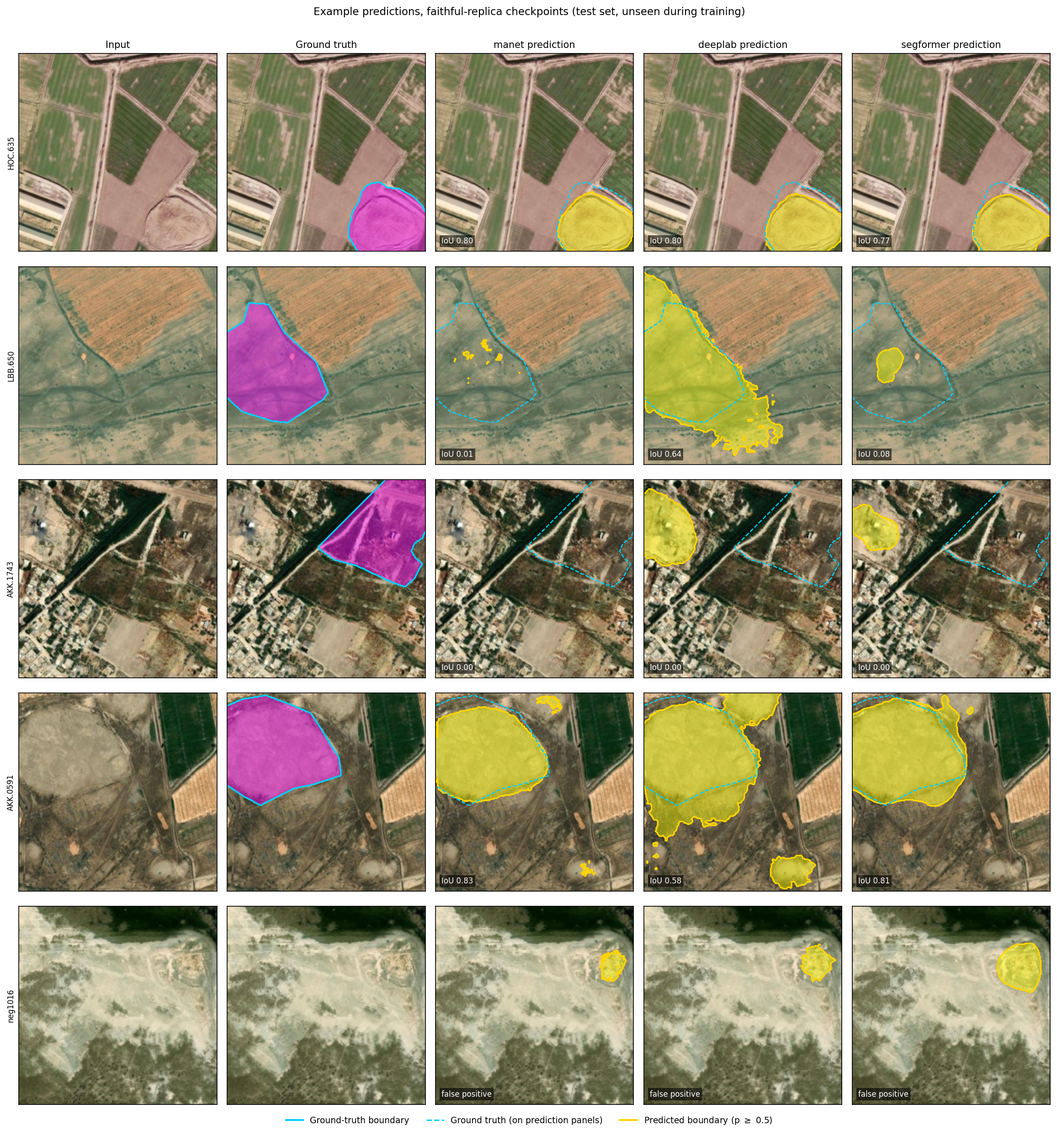
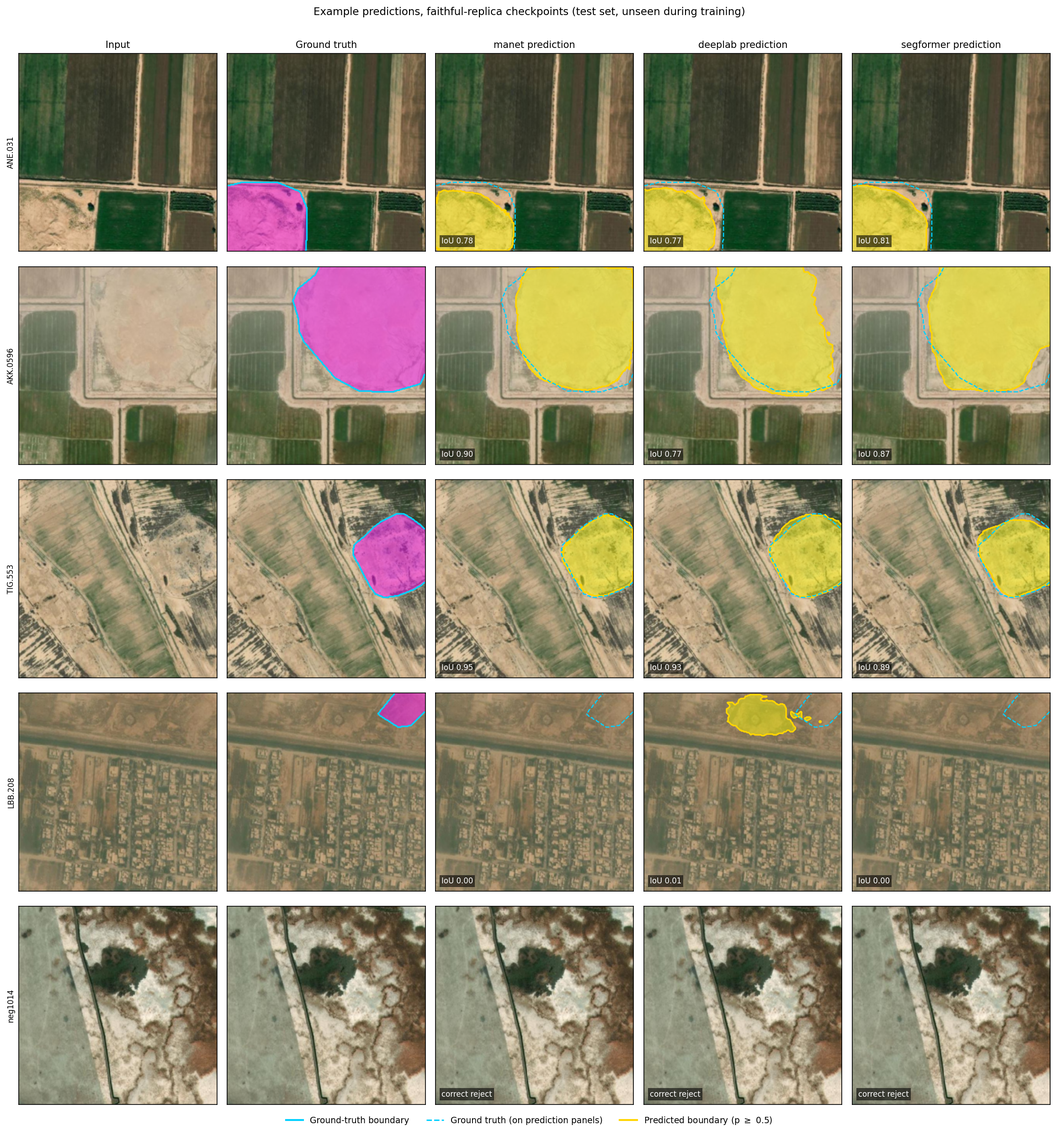
Select prediction-figure tiles on evidence and report the score distribution

diff --git a/thesis/chapters/A-reproduction.tex b/thesis/chapters/A-reproduction.tex
@@ -295,43 +295,63 @@ unseen during training.
 \caption[Example predictions on held-out test tiles]{Example predictions from
 the full-protocol replica checkpoints, on test tiles unseen during training.
 Columns: input imagery; annotated ground truth (filled, solid boundary); and
-the thresholded prediction of each architecture (filled, solid boundary) with
-the ground-truth boundary repeated as a dashed line for direct comparison.
-Per-panel figures are the IoU of that single tile. The final row is a negative
-tile -- no annotated site -- chosen for visual complexity rather than at
-random, since a uniform field is trivially rejected; all three architectures
-produce a small spurious detection on it.}
+each architecture's thresholded prediction ($p \geq 0.5$, filled and outlined)
+with the ground-truth boundary repeated as a dashed line for direct
+comparison. Tiles are selected rather than random, on the basis stated in
+Section~\ref{sec:repro-qualitative}: the first three are drawn from the regime
+where all three architectures agree, the fourth is a characteristic failure on
+a small site, and the fifth is a negative tile with no annotated site.}
 \label{fig:prediction-examples}
 \end{figure}
 
-Three things in this figure bear on how the quantitative results should be
-read, and two of them are unflattering.
+\paragraph{How these tiles were chosen.}
+They are not a random sample, and the distinction matters for how the figure
+should be read. Per-tile IoU on this corpus is strongly bimodal: scoring all
+466 site-bearing test tiles under all three checkpoints gives a median per-tile
+IoU of $0.165$ (MA-Net), $0.053$ (DeepLabV3+) and $0.000$ (SegFormer), with
+$48$--$57\%$ of tiles below $0.1$ and, at the same time, $29$--$37\%$ above
+$0.5$ and a 90th percentile of $0.78$--$0.81$. A random draw of four tiles
+therefore mostly samples the failure mode and understates what the models do
+when they succeed, while a selection of successes alone would misrepresent a
+distribution in which roughly half of tiles are near zero. The figure shows
+three tiles from the upper mode, one characteristic failure, and one negative.
 
-First, where a mound is tonally distinct from its surroundings the models
-localise it well and agree closely: on the first row all three recover the
-annotated contour at per-tile IoU of $0.77$--$0.80$, tracking the mound's
-outline rather than merely overlapping its bounding area. This is the
-behaviour the aggregate figure is built from, and it is genuinely good.
+\paragraph{What the successful cases show.}
+Where a mound is tonally distinct from its surroundings, the predicted contour
+tracks the annotated boundary closely rather than merely overlapping its
+extent, and the three architectures agree with one another to within a few
+points. This is not a marginal capability recovered by a favourable metric: on
+these tiles the models delineate the site, which is what the downstream
+archaeological workflow needs, and it is the behaviour underlying the
+upper mode of the distribution above.
 
-Second, agreement between architectures is far weaker than the aggregate
-figures suggest. On the second row the same tile yields $0.01$, $0.64$ and
-$0.08$ across the three architectures -- one recovers the site, two effectively
-miss it. On the third row all three miss the annotated site entirely, and two
-of them instead fire on an unannotated area elsewhere in the tile. Aggregate
-IoU averages this disagreement away: the reference study's finding that
-architectural choice moves IoU by only a few points is compatible with
-per-tile behaviour that differs far more than that, and a mean over tiles
-should not be read as evidence that the architectures are doing the same thing.
+\paragraph{What the failure case shows.}
+The fourth row is the error mode Section~\ref{sec:repro-error} quantifies. The
+annotated site occupies $5\%$ of the crop, and all three architectures miss it
+almost entirely. The dependence is systematic rather than incidental: taking
+the worst of the three architectures per tile, median IoU is $0.000$ for every
+site-area band below $12\%$ of the crop and rises only for larger sites. Small
+sites carry too little tonal evidence to separate them from the terrain they
+sit in, which is the same reason the original authors excluded sites below
+$1{,}000$~m\textsuperscript{2} and reports a $+3.9$ point gain from that
+filtering.
 
-Third, the negative example shows the corresponding failure in the other
-direction. Chosen for visual complexity rather than at random, it elicits a
-small spurious detection from all three architectures. Together with the third
-row's misplaced predictions this indicates that the models key on tonal and
-textural contrast -- which is what a mounded site usually presents from above,
-but also what an ordinary field boundary, a quarry or a patch of bare ground
-presents. This is the mechanism behind the error structure
-Section~\ref{sec:repro-error} quantifies, and behind the strong dependence of
-per-image IoU on site area (Table~\ref{tab:by-area}): the smaller the site
-relative to its crop, the less tonal evidence separates it from the terrain it
-sits in, and the more readily that evidence is matched by something else in
-the tile.
+\paragraph{Negatives.}
+The final row carries no annotated site and all three architectures correctly
+predict nothing, which is the typical outcome rather than a flattering one:
+$108$ of the $123$ negative test tiles are cleanly rejected by all three, and
+spurious detections appear on only $5.7\%$ (DeepLabV3+), $7.3\%$ (MA-Net) and
+$8.9\%$ (SegFormer) of them. This matters for the metric discussion of
+Section~\ref{sec:repro-metric}: correctly-rejected empty tiles score a perfect
+$1.0$ under the reference's per-image convention, so they contribute
+substantially to the headline figure, and the fact that they are genuinely
+rejected -- rather than scored as perfect by an artefact of averaging -- is
+what makes that contribution legitimate.
+
+\paragraph{A caveat on per-tile figures.}
+Evaluation random-crops each tile, following the reference protocol, so a
+single tile's IoU depends on the crop drawn as well as on the model. The values
+annotated in Figure~\ref{fig:prediction-examples} are those of the crop shown
+and differ somewhat from the same tiles' scores under a different draw; the
+distributional statistics quoted above, taken over all 466 site-bearing tiles,
+are the stable quantity.

diff --git a/thesis/scripts/score_test_tiles.py b/thesis/scripts/score_test_tiles.py
@@ -1,0 +1,111 @@
+"""Score every test tile under all three replica checkpoints.
+
+Produces the per-tile IoU distribution needed to choose figure examples on
+evidence rather than by random draw, and to state in the caption how the
+chosen tiles sit relative to the rest of the test set.
+
+Note: evaluation random-crops (the reference protocol), so a tile's IoU is
+partly a function of the crop drawn. The seed is fixed here and in
+make_prediction_figures.py so the two agree.
+"""
+import json
+import os
+import random
+import sys
+
+import numpy as np
+import torch
+
+sys.path.insert(0, "/workspace/0-reproduction")
+from dataset import load_dataset, esegui_trasformazioni, ArcheoDataset
+from model import _EpochBufferedArcheoModel, SegformerArcheoModel
+
+ARCH_CONFIG = {
+    "manet":     {"arch": "MAnet",         "encoder": "efficientnet-b3", "ckpt": "manet_full/lightning_logs/version_0/checkpoints/epoch=19-step=2940.ckpt"},
+    "deeplab":   {"arch": "DeepLabV3Plus", "encoder": "resnet50",        "ckpt": "deeplab_full/lightning_logs/version_0/checkpoints/epoch=19-step=2940.ckpt"},
+    "segformer": {"arch": None,            "encoder": "b0",              "ckpt": "segformer_full/lightning_logs/version_0/checkpoints/epoch=19-step=2940.ckpt"},
+}
+DATASET_PATH = "/workspace/bing_1k"
+RUNS_ROOT = "/workspace/0-reproduction/runs"
+OUT = "/workspace/runs/figs/test_tile_scores.json"
+RANDOM_SEED = 1234
+THRESHOLD = 0.5
+device = "cuda"
+
+random.seed(RANDOM_SEED)
+np.random.seed(RANDOM_SEED)
+torch.manual_seed(RANDOM_SEED)
+
+n_files = len(os.listdir(os.path.join(DATASET_PATH, "train", "originals", "sites"))) \
+    + len(os.listdir(os.path.join(DATASET_PATH, "train", "negs", "sites")))
+indices = np.arange(0, n_files)
+np.random.shuffle(indices)
+path_lookup, train_files, val_files, test_files = load_dataset(DATASET_PATH, RANDOM_SEED, indices)
+_, val_transform = esegui_trasformazioni()
+
+models = {}
+for key, cfg in ARCH_CONFIG.items():
+    ckpt = os.path.join(RUNS_ROOT, cfg["ckpt"])
+    config = {"arch": cfg["arch"], "encoder": cfg["encoder"], "weights": "imagenet",
+              "in_channels": 3, "batch_size": 32, "lr": 1e-4, "loss": "focal"}
+    if key == "segformer":
+        m = SegformerArcheoModel(encoder_name=cfg["encoder"], in_channels=3, out_classes=1, config=config)
+        m.load_state_dict(torch.load(ckpt, map_location="cpu")["state_dict"])
+    else:
+        m = _EpochBufferedArcheoModel.load_from_checkpoint(
+            ckpt, arch=cfg["arch"], encoder_name=cfg["encoder"],
+            encoder_weights="imagenet", in_channels=3, out_classes=1, config=config)
+    models[key] = m.to(device).eval()
+
+ds = ArcheoDataset(np.array(sorted(test_files)), path_lookup, transform=val_transform)
+rows = []
+with torch.no_grad():
+    for i in range(len(ds)):
+        image, mask, fname = ds[i]
+        mask_np = mask.squeeze(0).numpy()
+        x = image.unsqueeze(0).to(device).float()
+        rec = {"file": fname, "positive": bool(mask_np.any()),
+               "site_frac": float((mask_np >= 0.5).mean())}
+        for key, m in models.items():
+            logits = m(x)
+            if logits.shape[-2:] != mask_np.shape:
+                logits = torch.nn.functional.interpolate(
+                    logits, size=mask_np.shape, mode="bilinear", align_corners=False)
+            pred = (torch.sigmoid(logits).squeeze().cpu().numpy() >= THRESHOLD)
+            gt = mask_np >= 0.5
+            if gt.any():
+                union = np.logical_or(pred, gt).sum()
+                rec[key] = float(np.logical_and(pred, gt).sum() / union) if union else 0.0
+            else:
+                # negative tile: record whether anything was predicted at all
+                rec[key] = None
+                rec[f"{key}_fp_px"] = int(pred.sum())
+        rows.append(rec)
+        if (i + 1) % 100 == 0:
+            print(f"  scored {i+1}/{len(ds)}", flush=True)
+
+os.makedirs(os.path.dirname(OUT), exist_ok=True)
+with open(OUT, "w") as fh:
+    json.dump(rows, fh, indent=1)
+
+pos = [r for r in rows if r["positive"]]
+neg = [r for r in rows if not r["positive"]]
+print(f"\ntest tiles: {len(rows)}  ({len(pos)} with a site, {len(neg)} negative)")
+for key in ARCH_CONFIG:
+    v = np.array([r[key] for r in pos])
+    print(f"{key:>10}: median {np.median(v):.3f}  mean {v.mean():.3f}  "
+          f"p90 {np.percentile(v,90):.3f}  frac<0.1 {(v<0.1).mean():.1%}  frac>0.5 {(v>0.5).mean():.1%}")
+    fp = np.array([r[f"{key}_fp_px"] for r in neg])
+    print(f"{'':>10}  negatives with any spurious pixel: {(fp>0).mean():.1%}")
+
+# Tiles where all three architectures agree and score well -- the defensible
+# "this works" examples, as opposed to one architecture getting lucky.
+allgood = sorted(pos, key=lambda r: min(r[k] for k in ARCH_CONFIG), reverse=True)
+print("\ntop 12 tiles by WORST-of-three IoU (all three architectures succeed):")
+for r in allgood[:12]:
+    print(f"  {r['file']:<16} site {r['site_frac']*100:5.1f}%  "
+          + "  ".join(f"{k} {r[k]:.2f}" for k in ARCH_CONFIG))
+cleanneg = [r for r in neg if all(r[f"{k}_fp_px"] == 0 for k in ARCH_CONFIG)]
+print(f"\nnegatives cleanly rejected by all three: {len(cleanneg)}/{len(neg)}")
+for r in cleanneg[:5]:
+    print("  ", r["file"])

diff --git a/thesis/scripts/make_prediction_figures.py b/thesis/scripts/make_prediction_figures.py
@@ -38,21 +38,25 @@ _, val_transform = esegui_trasformazioni()
 # Mostly site-bearing tiles, plus one "neg" empty-mask tile: a third of the
 # corpus is negative, and a figure of only positives would not show whether the
 # model correctly produces nothing when there is nothing to find.
-site_files = [f for f in test_files if not f.startswith("neg")]
-neg_files = [f for f in test_files if f.startswith("neg")]
-rng = random.Random(RANDOM_SEED)
-chosen = rng.sample(list(site_files), N_EXAMPLES)
-if neg_files:
-    # Prefer a *hard* negative. Negatives are drawn from urban areas, intensive
-    # agriculture, water and rocky terrain; a uniform field is trivially
-    # rejected and demonstrates nothing, whereas visually complex terrain is
-    # where a false positive would actually occur. Pick the highest-variance
-    # candidate from a random sample as a cheap proxy for visual complexity.
-    probe = ArcheoDataset(np.array(rng.sample(list(neg_files), min(12, len(neg_files)))),
-                          path_lookup, transform=val_transform)
-    variances = [(float(probe[i][0].float().std()), probe.images_filenames[i])
-                 for i in range(len(probe))]
-    chosen = chosen + [max(variances)[1]]
+# Tiles are chosen deliberately rather than at random, from the full test-set
+# scoring produced by score_test_tiles.py, and the caption states the basis.
+# A random draw is not neutral here: per-tile IoU on this corpus is strongly
+# bimodal (roughly half of site-bearing tiles score below 0.1), so four random
+# tiles mostly show the failure mode and understate what the models do when
+# they work. The selection below leads with the regime where all three
+# architectures agree, and keeps one characteristic failure so the figure does
+# not contradict the error analysis that accompanies it.
+#
+#   ANE.031   site 22.0%   0.91 / 0.90 / 0.92  -- all three recover the mound
+#   AKK.0596  site 19.2%   0.87 / 0.93 / 0.90
+#   TIG.553   site 12.6%   0.93 / 0.87 / 0.86
+#   LBB.208   site  5.0%   0.00 / 0.00 / 0.00  -- small site, all three miss
+#   neg1014   negative                          -- cleanly rejected (as are
+#                                                  108 of 123 negatives)
+chosen = ["ANE.031.jpg", "AKK.0596.jpg", "TIG.553.jpg", "LBB.208.jpg", "neg1014.jpg"]
+missing = [f for f in chosen if f not in set(test_files)]
+if missing:
+    raise SystemExit(f"chosen tiles not in the test split: {missing}")
 N_EXAMPLES = len(chosen)
 
 test_dataset = ArcheoDataset(np.array(chosen), path_lookup, transform=val_transform)
